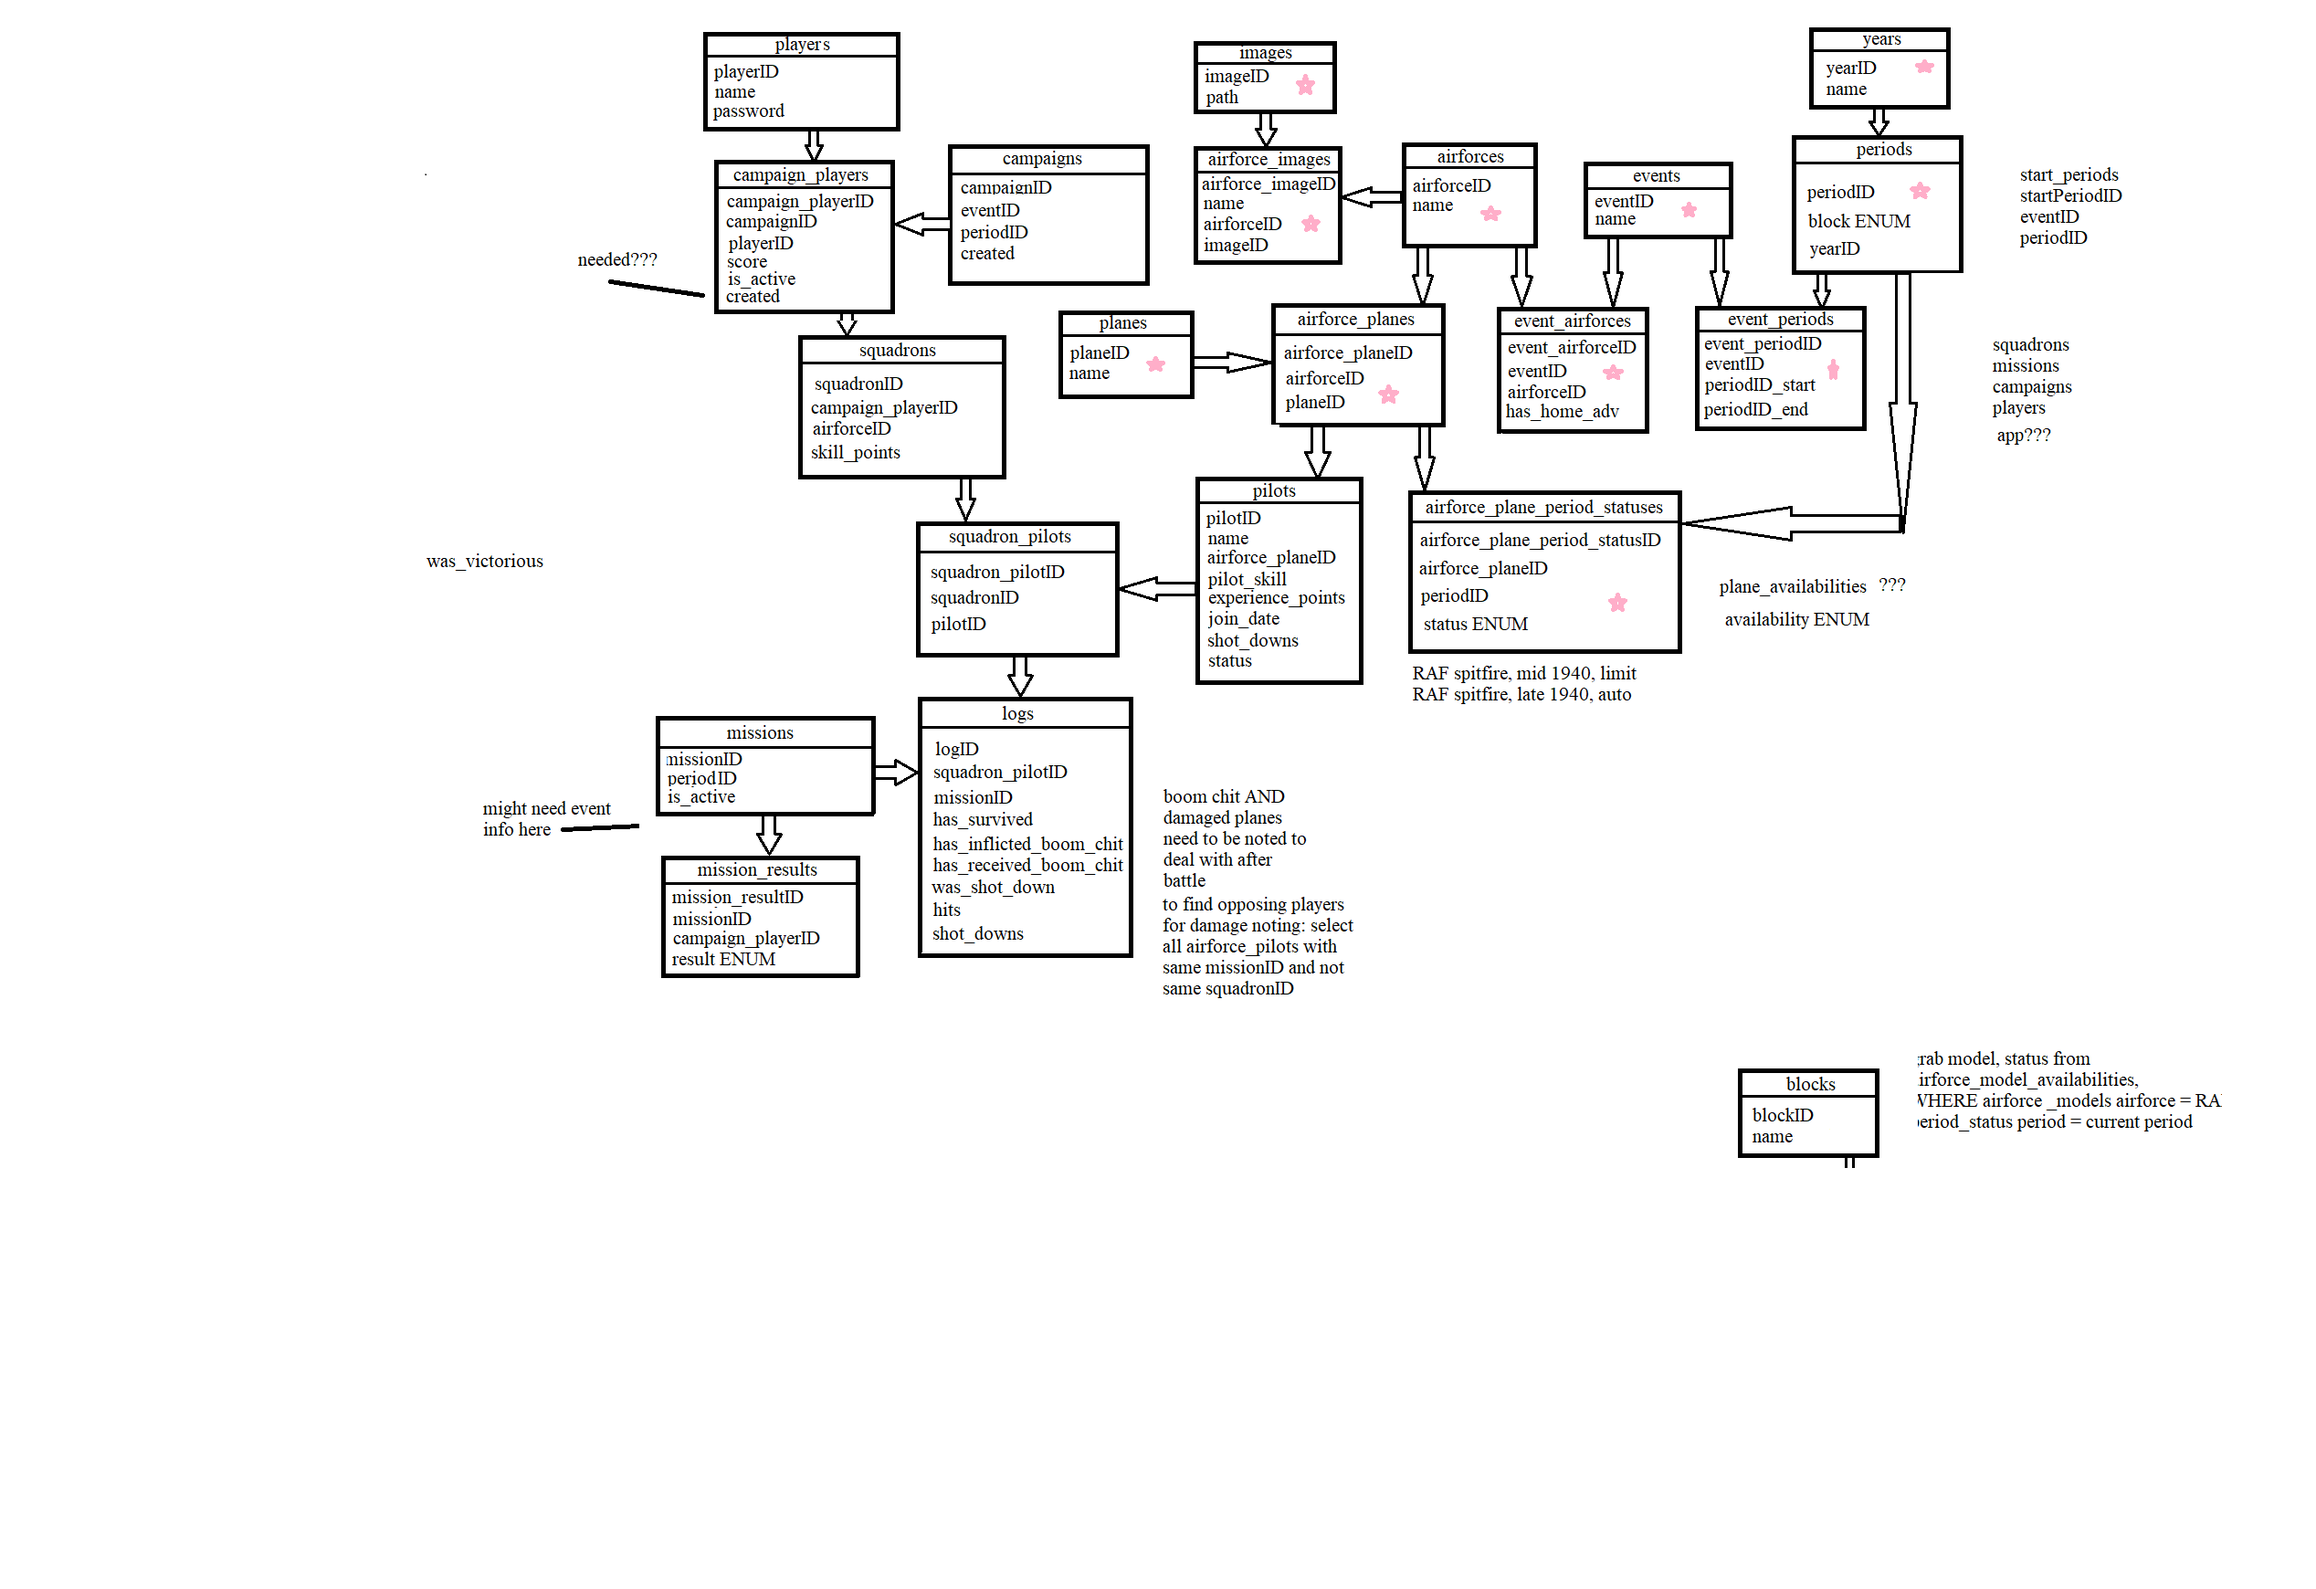
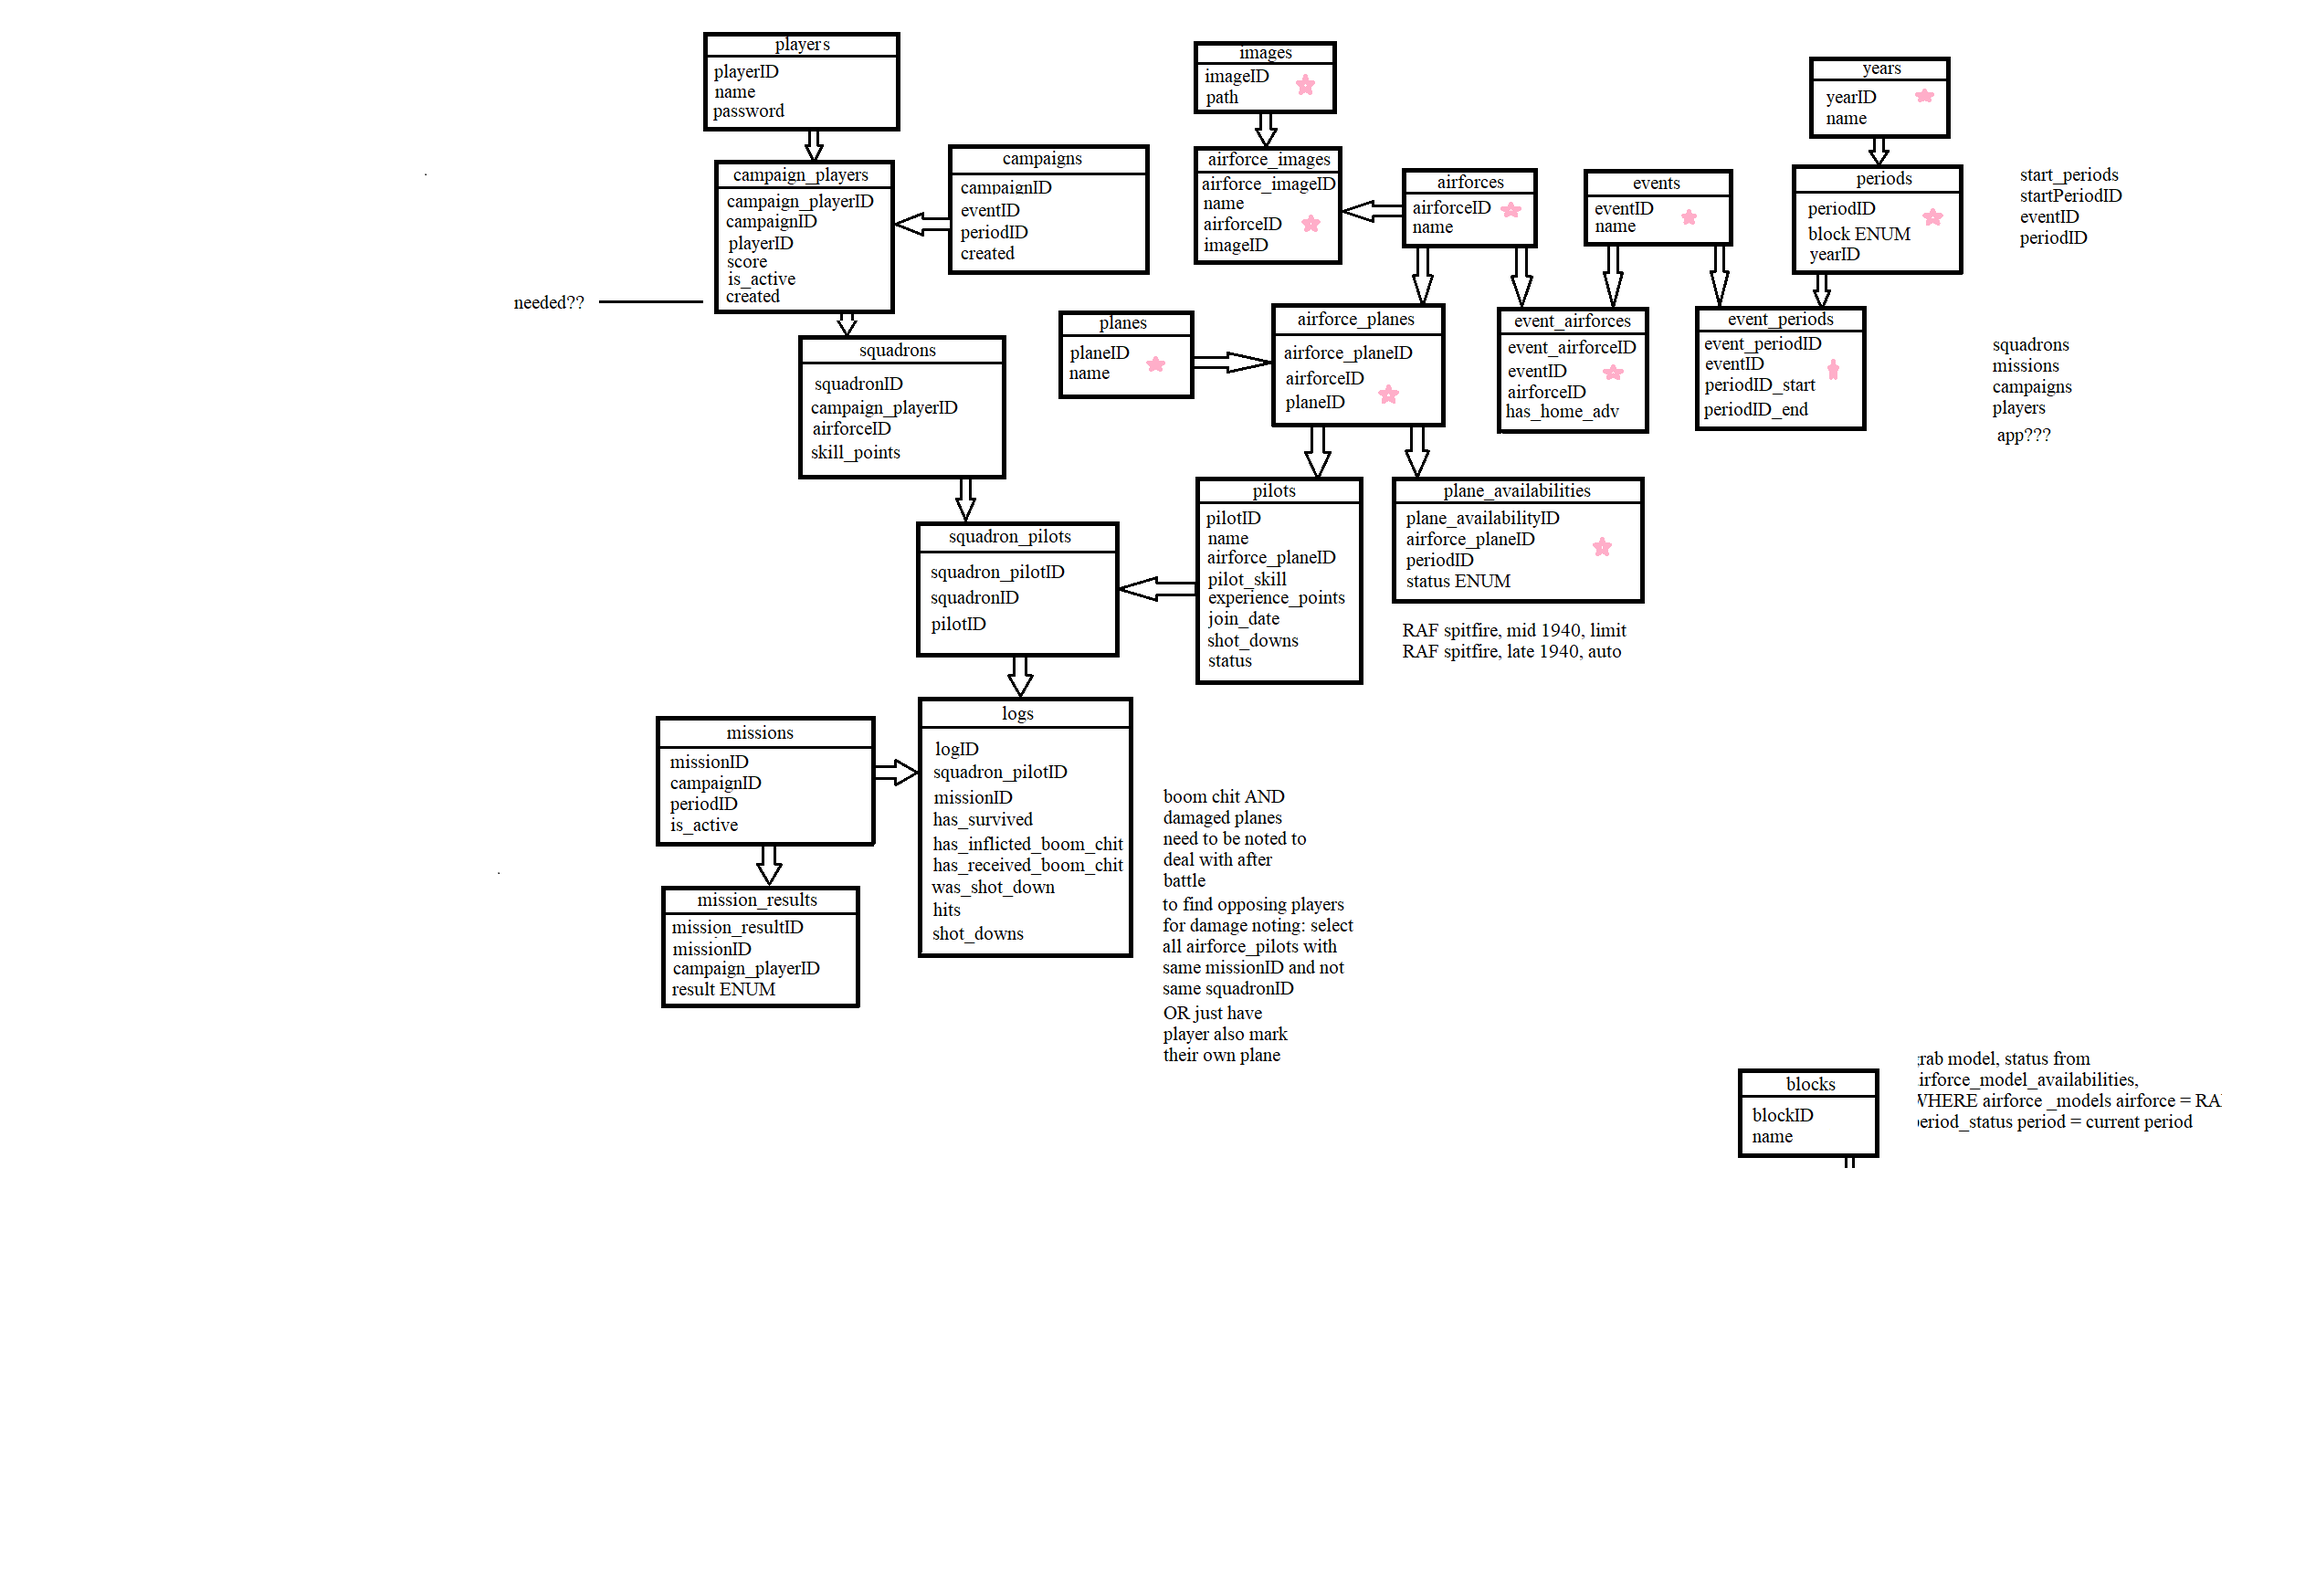
cleanup

diff --git a/Workspace/PopulateDB/src/com/brs/airforces/InsertAirForceData_TEST.java b/Workspace/PopulateDB/src/com/brs/airforces/InsertAirForceData_TEST.java
@@ -71,7 +71,7 @@ public interface InsertAirForceData_TEST {
 				    	callableStatement.execute(); //execute statement //++++++++++++++++++++++++++++++++++
 					}catch(Exception e) { e.printStackTrace(); }
 					//-------------------------------------------------
-					//add periods and statuses to 'airforce_plane_period_statuses':
+					//add plane's periods and statuses to 'plane_availabilities':
 					
 					JSONArray periodStatuses = (JSONArray) plane.get("period_statuses"); //get array of period statuses
 					Iterator<JSONObject> periodStatusesIterator = periodStatuses.iterator(); //iterate through periodStatuses
@@ -83,7 +83,7 @@ public interface InsertAirForceData_TEST {
 						String block = (String) period.get("block"); //get block from period
 						String year = (String) period.get("year"); //get year from period
 						String status = (String) periodStatus.get("status"); //get status from periodStatus
-						callableStatement = connection.prepareCall("{CALL insert_airforce_plane_period_status(?,?,?,?,?)}"); //create statement
+						callableStatement = connection.prepareCall("{CALL insert_plane_availability(?,?,?,?,?)}"); //create statement
 						callableStatement.setString(1, airForceName); //set input with air force
 				        callableStatement.setString(2, planeName); //set input with plane
 				        callableStatement.setString(3, block); //set input with block

diff --git a/Workspace/PopulateDB/src/com/brs/Main.java b/Workspace/PopulateDB/src/com/brs/Main.java
@@ -47,13 +47,14 @@ public class Main implements InsertBlocks, InsertYears, InsertPeriods, InsertEve
 		
 		
 		////////////////InsertAirForceData_TEST.insert();
-		///////////////////InsertEventData_TEST.insert();
+		///////////////InsertEventData_TEST.insert();
 		
 		
 		//InsertPlayer_TEST.insert("Bob", "1234");
 		//InsertPlayer_TEST.insert("Ben", "1234");
 		//InsertPlayer_TEST.insert("Bob", "password");
 		
+		/////InsertPlayer_TEST.insert("Bill", "333");
 		
 		SelectAll.select("players");
 	
